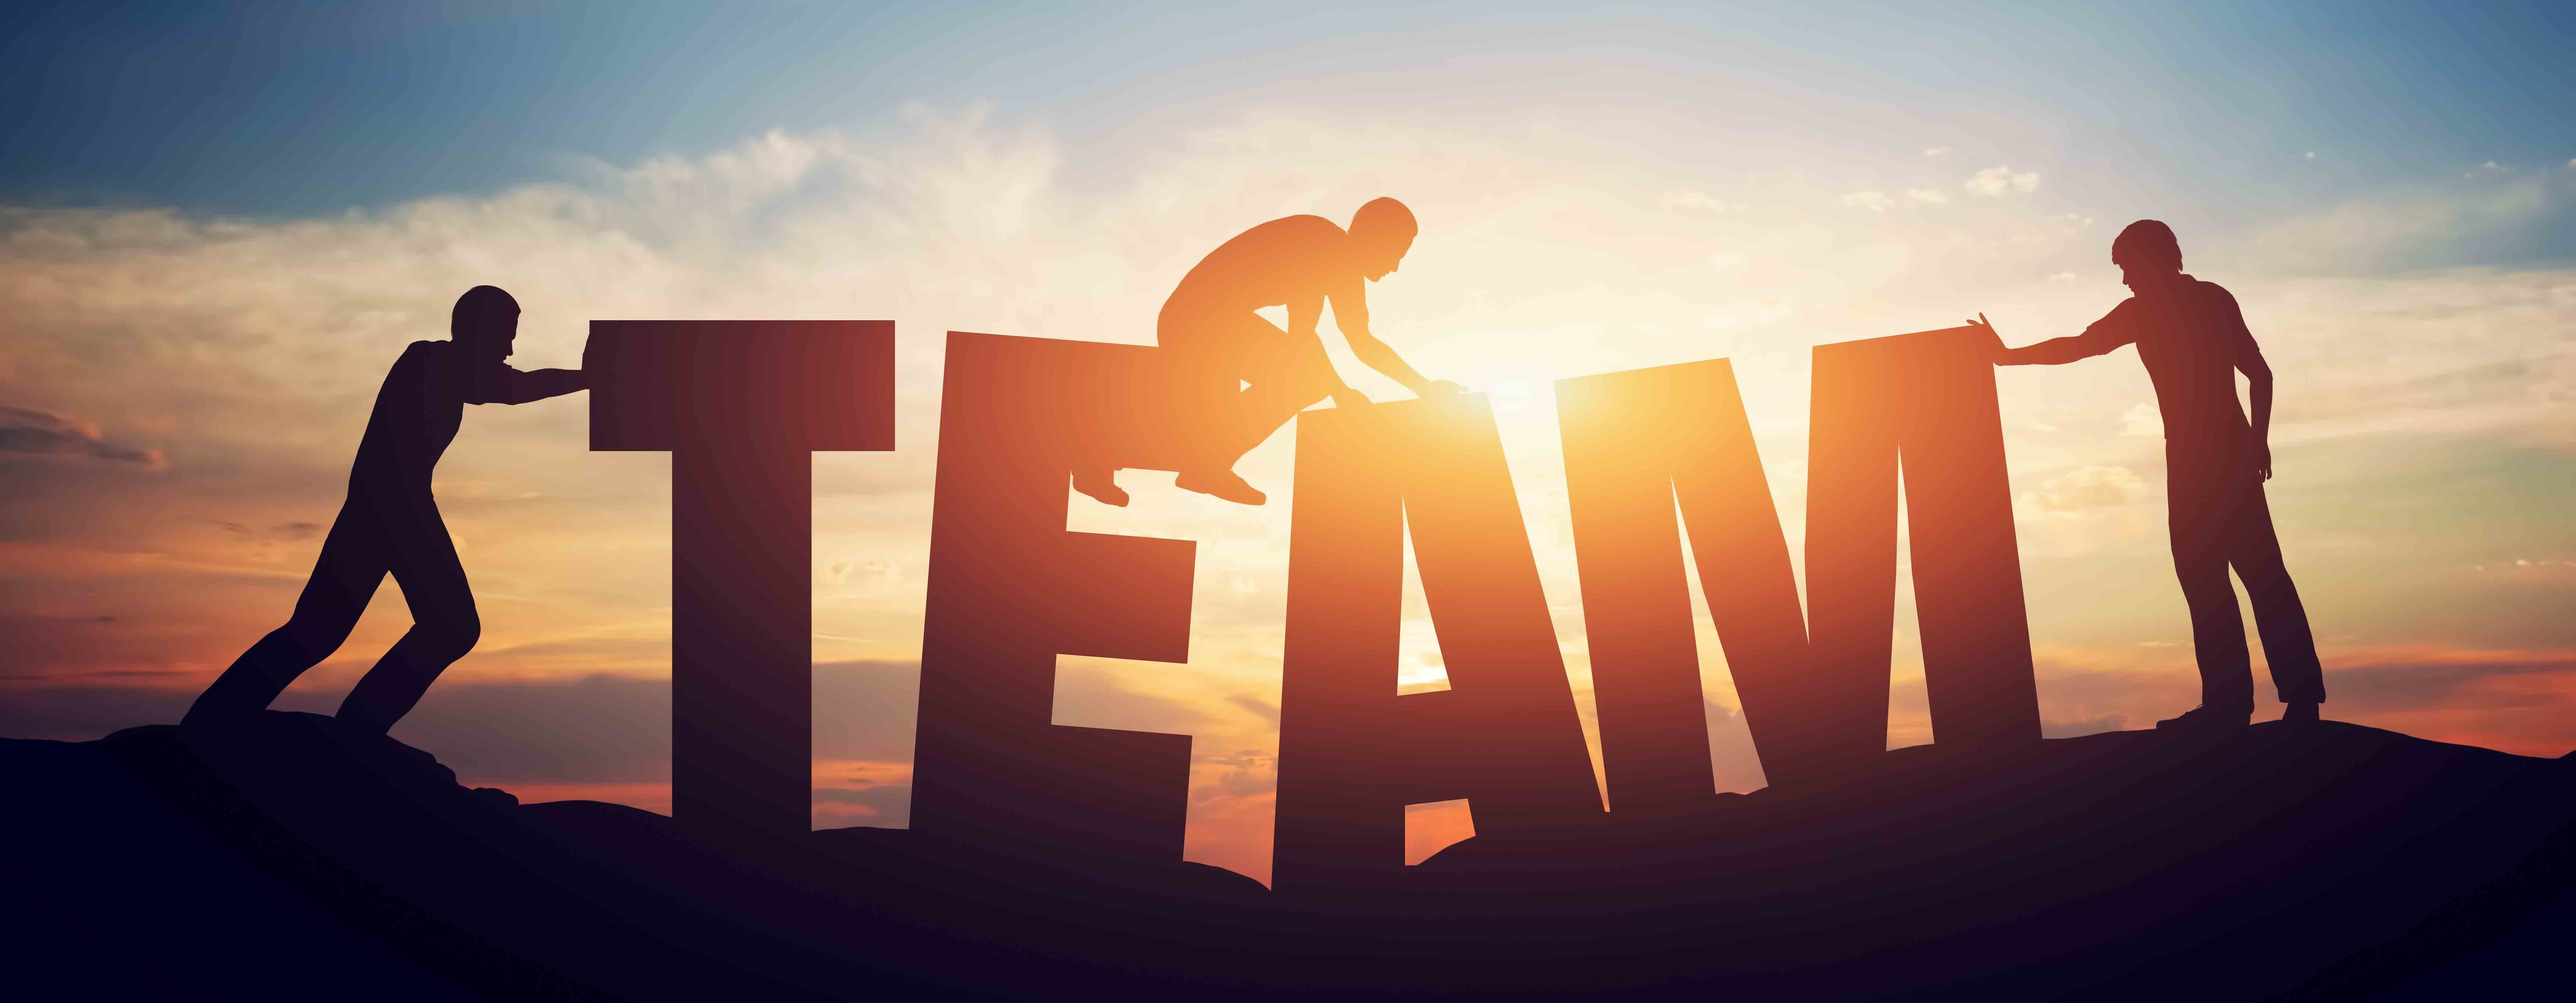
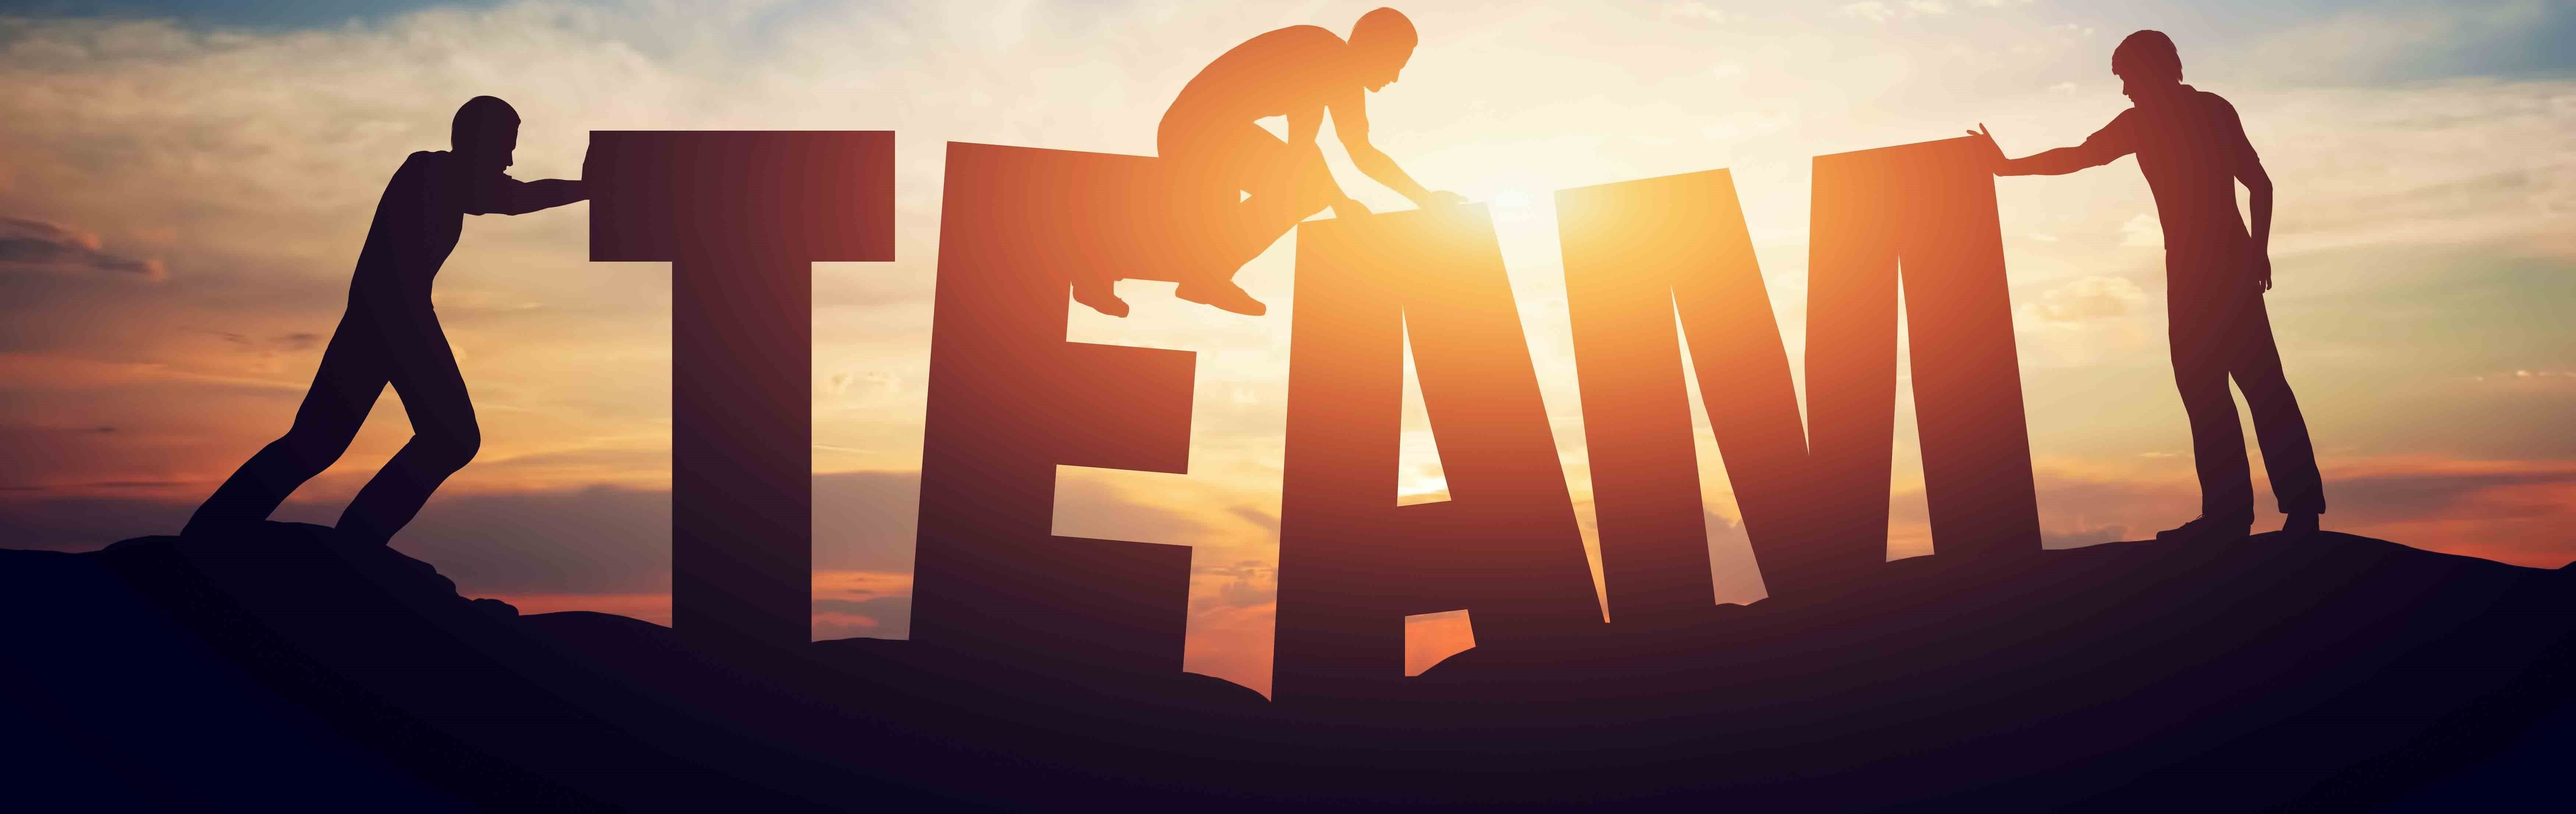
update

diff --git a/assets/css/style2.css b/assets/css/style2.css
@@ -2,6 +2,11 @@
 .page-intro{
     width: 100%;
     height: 300px;
+    background-position:bottom;
+    background-size: cover;
+    background-repeat: no-repeat;
+    box-shadow: 0px 100px 100px #0077ff inset;
+    background-attachment: fixed;
 }
 .page-intro .container{
     width: 100%;
@@ -10,24 +15,19 @@
     flex-direction: column;
     justify-content: center;
     align-items: center;
-    background-position: top;
-    background-size: cover;
-    background-repeat: no-repeat;
-    box-shadow: 0px 100px 100px #0077ff inset;
-    background-attachment: fixed;
+    
 }
 
 .page-intro .container .page-name{
     font-size: 40px;
     font-weight: bold;
-    color: white;
+    color: black;
     text-align: center;
-    text-shadow: 0px 0px 5px black;
 }
 .page-intro .container .desc{
     font-size: 28px;
     text-align: center;
-    color: antiquewhite;
+    color: black;
 }
 @media (max-width:500px) {
     .page-intro{
@@ -156,33 +156,18 @@
 .team .owl-carousel .owl-item div .t-item .t-details .social .s-icons {
     height: 25px;
     width: 25px;
-    padding: 2px;
     border-radius: 50%;
     margin: 5px;
     transition: 0.3s;
 }
 
 .team .owl-carousel .owl-item div .t-item .t-details .social .s-icons:hover {
-    box-shadow: 0px 0px 20px white;
-    background-color: white;
+    box-shadow: 0px 0px 10px black;
+    opacity: 0.5;
 }
 .op-1{
     opacity: 1 !important;
 }
-@keyframes ud-slide {
-    0% {
-        transform: translateY(0%);
-    }
-
-    50% {
-        transform: translateY(10%);
-    }
-
-    100% {
-        transform: translateY(0%);
-    }
-}
-
 @media screen and (max-width:1040px) {
     .team .container .item1 #text1 {
         font-size: 22px;

diff --git a/our-team.html b/our-team.html
@@ -46,8 +46,8 @@
         <div class="nav-bottom-border"></div>
     </header>
     <main>
-        <section class="page-intro">
-            <div class="container" style="background-image: url(./assets/grs/images/team-building.jpg);">
+        <section class="page-intro" style="background-image: url(./assets/grs/images/team-building.jpg);">
+            <div class="container" >
                 <span class="page-name">GRS Team</span>
                 <span class="desc">"Teamwork divides the task and multiplies the Success"</span>
             </div>
